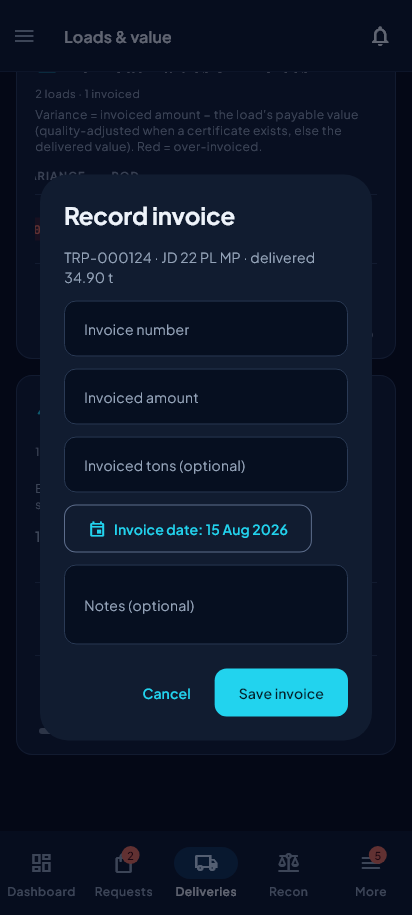
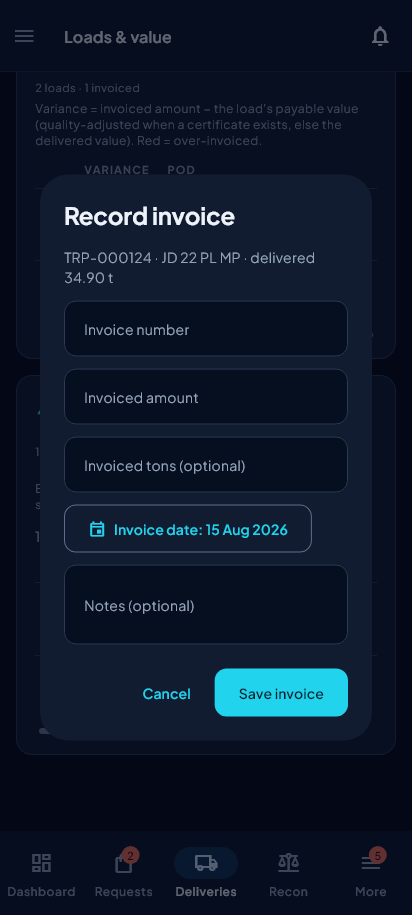
fix(buyer): the loads table fits its card, so the button it exists for is on screen
Buyer pass, reviewer finding #10, seen in
`screen-buyer-loads-value-desktop-light` — a horizontal scrollbar on a 1600px
desktop, and the last column cut at the card's right edge.

`MlDataTable._effectiveMinWidth` solves each column's declared need across the
WHOLE table (`need × totalFlex / flex`), because a flex weight is a share, not
a width. `Source` declared `minWidth: 124` — measured, and the comment above it
says why: "Iron Hills Mining" is 105px and "Atlas Buyer Group" 118px — while
holding `flex: 2` of 20. Ten per cent of the table had to be 124px, so the
table had to be 1376px. The card is about 1224px.

One column's weight disagreeing with its own declared need pushed the table
152px into a horizontal scroll and carried the LAST column off the right edge —
the ghost button that captures an invoice, which is the reason a buyer opens
this screen at all. At `flex: 3` of 21 the same 124px costs 968px and the
widest demand becomes the money columns at 1108px, which fits.

Looked at: the table now ends inside the card with no scrollbar, and both
"Edit" and "Invoice" are on screen. The truck cell reflowed to the two-line
identity the reference uses (plate over commodity). At text scale 1.3 the table
still scrolls — at 1.3 the figures genuinely need the room, and that is what
`MlWideTable`'s scrollbar is for.

Two goldens: this screen, and the invoice-capture dialog, whose only change is
the same table reflowing behind its scrim.
[…]

Changed region(s): [[0.0874, 0.0918, 0.8447, 0.2142]]

diff --git a/test/features/portal/buyer_loads_value_table_fits_test.dart b/test/features/portal/buyer_loads_value_table_fits_test.dart
@@ -1,0 +1,191 @@
+// The buyer's loads table fits its card, so the button it exists for is on
+// screen.
+//
+// Buyer pass, 2026-08-23 (reviewer finding #10, seen in
+// `screen-buyer-loads-value-desktop-light`: the table carried a horizontal
+// scrollbar on a 1600px desktop and the last column was cut at the card's
+// right edge).
+//
+// `MlDataTable._effectiveMinWidth` solves each column's declared need across
+// the WHOLE table — `need × totalFlex / flex` — because a flex weight is a
+// share, not a width. `Source` declared `minWidth: 124` (measured: "Iron Hills
+// Mining" is 105px, "Atlas Buyer Group" 118px) while holding `flex: 2` of 20,
+// which is 10% of the table. Ten per cent of the table had to be 124px, so the
+// table had to be 1376px. The card is about 1224px.
+//
+// So one column's weight disagreeing with its own declared need pushed the
+// table 152px into a horizontal scroll and carried the LAST column — the ghost
+// button that captures an invoice, which is the reason a buyer opens this
+// screen — off the right edge. At `flex: 3` of 21 the same 124px costs 968px
+// and the widest demand becomes the money columns at 1108px.
+//
+// The arithmetic is asserted directly rather than the pixels, because the
+// pixels are what the arithmetic produces and the arithmetic is what a future
+// column edit will get wrong.
+
+import 'package:flutter/material.dart';
+import 'package:flutter_riverpod/flutter_riverpod.dart';
+import 'package:flutter_test/flutter_test.dart';
+import 'package:shared_preferences/shared_preferences.dart';
+import 'package:supabase_flutter/supabase_flutter.dart';
+
+import 'package:flutter_application_1/core/design/components/ml_components.dart';
+import 'package:flutter_application_1/core/theme/app_theme.dart';
+import 'package:flutter_application_1/features/auth/models/user_type.dart';
+import 'package:flutter_application_1/features/portal/screens/buyer_loads_value_screen.dart';
+
+import '../../fixtures/portal_capture_fixtures.dart';
+import '../../fixtures/portal_tail_fixtures.dart';
+import '../../fixtures/screen_fixtures.dart';
+import '../../test_helpers/real_fonts.dart';
+import '../../test_helpers/frozen_clock.dart';
+
+/// `_effectiveMinWidth`, restated so a test can reason about it. Kept in step
+/// with `ml_data_table.dart` by the last case in this file.
+double tableMinimum(List<MlColumn> columns, {double scale = 1.0}) {
+  const rowPadding = 16.0;
+  const cellGutter = 12.0;
+  var totalFlex = 0;
+  var pinned = 0.0;
+  for (final c in columns) {
+    if (c.width != null) {
+      pinned += c.width!;
+    } else {
+      totalFlex += c.flex;
+    }
+  }
+  var out = 560.0;
+  for (final c in columns) {
+    if (c.minWidth == null) continue;
+    final need = c.minWidth! * scale + cellGutter;
+    final total = c.width != null
+        ? (need > c.width! ? pinned + need - c.width! + rowPadding : 0.0)
+        : (totalFlex == 0 || c.flex == 0
+            ? 0.0
+            : need * totalFlex / c.flex + pinned + rowPadding);
+    if (total > out) out = total;
+  }
+  return out;
+}
+
+void main() {
+  setUpAll(() async {
+    freezeCaptureClock();
+    await loadRealFonts();
+    SharedPreferences.setMockInitialValues({});
+    await Supabase.initialize(
+      url: 'http://localhost:54321',
+      anonKey: 'buyer-loads-value-table-test',
+    );
+  });
+
+  Future<void> pump(WidgetTester tester) async {
+    tester.view.physicalSize = const Size(1600, 1800);
+    tester.view.devicePixelRatio = 1.0;
+    addTearDown(tester.view.reset);
+    await tester.pumpWidget(
+      ProviderScope(
+        overrides: [
+          ...companyScopeOverrides(
+            role: UserRole.admin,
+            orgType: OrgType.buyer,
+          ),
+          ...portalCaptureOverrides(),
+          ...portalTailOverrides(),
+        ],
+        child: MaterialApp(
+          theme: AppTheme.darkTheme,
+          home: const Scaffold(body: BuyerLoadsValueScreen()),
+        ),
+      ),
+    );
+    await tester.pump();
+    await tester.pump(const Duration(milliseconds: 800));
+  }
+
+  /// The per-load table — the one with a Variance column.
+  MlDataTable loadsTable(WidgetTester tester) => tester
+      .widgetList<MlDataTable>(find.byType(MlDataTable))
+      .firstWhere(
+        (t) => t.columns.any((c) => c.label == 'Variance'),
+        orElse: () => throw StateError('no per-load table on this screen'),
+      );
+
+  testWidgets('the per-load table fits a desktop card', (tester) async {
+    await pump(tester);
+
+    final table = loadsTable(tester);
+    // The card the table sits in on a 1600px viewport: the page body caps and
+    // pads, and the card pads again. Measured off the render rather than
+    // recomputed here.
+    final card = tester
+        .getRect(find.ancestor(
+          of: find.byWidget(table),
+          matching: find.byType(MlCard),
+        ).first)
+        .width;
+
+    expect(
+      tableMinimum(table.columns),
+      lessThanOrEqualTo(card),
+      reason:
+          'the table demanded ${tableMinimum(table.columns).toStringAsFixed(0)}px '
+          'inside a ${card.toStringAsFixed(0)}px card, so it scrolled and the '
+          'last column — the invoice button — was off the right edge',
+    );
+  });
+
+  testWidgets('no column asks for more of the table than its weight buys', (
+    tester,
+  ) async {
+    await pump(tester);
+
+    final table = loadsTable(tester);
+    final totalFlex = table.columns
+        .where((c) => c.width == null)
+        .fold<int>(0, (a, c) => a + c.flex);
+
+    for (final c in table.columns.where((c) => c.minWidth != null)) {
+      // What this ONE column's declared need costs the whole table.
+      final own = (c.minWidth! + 12) * totalFlex / c.flex + 16;
+      expect(
+        own,
+        lessThanOrEqualTo(1224),
+        reason:
+            '"${c.label}" declares ${c.minWidth}px at flex ${c.flex} of '
+            '$totalFlex, which makes the WHOLE table '
+            '${own.toStringAsFixed(0)}px. Give the column a weight that can '
+            'pay for what it needs',
+      );
+    }
+  });
+
+  // The GREEN case: the columns still declare what their contents need. A
+  // "fix" that simply deleted the minWidths would pass the two cases above and
+  // put "Iron Hills Mining" and "R40,920.00" back into a clipped cell, which
+  // is the fault those numbers were measured to end.
+  testWidgets('the columns still declare their measured needs', (tester) async {
+    await pump(tester);
+
+    final byLabel = {
+      for (final c in loadsTable(tester).columns) c.label: c,
+    };
+    expect(byLabel['Truck']!.minWidth, kPlateColumnMinWidth);
+    expect(byLabel['Source']!.minWidth, 124);
+    expect(byLabel['Value']!.minWidth, 92);
+    expect(byLabel['']!.minWidth, 96);
+  });
+
+  // And the restatement above has not drifted from the widget it mirrors.
+  test('the arithmetic here matches ml_data_table.dart', () {
+    const columns = [
+      MlColumn('a', flex: 3, minWidth: 120),
+      MlColumn('b', flex: 2, minWidth: 200),
+      MlColumn('c', flex: 2),
+    ];
+    // (200 + 12) * 7 / 2 + 16 — the widest demand of the three, and above
+    // the 560px floor, which would otherwise be what is being asserted.
+    expect(tableMinimum(columns), closeTo((200 + 12) * 7 / 2 + 16, 0.01));
+    expect(tableMinimum(columns), greaterThan(560));
+  });
+}

diff --git a/lib/features/portal/screens/buyer_loads_value_screen.dart b/lib/features/portal/screens/buyer_loads_value_screen.dart
@@ -290,7 +290,21 @@ class _Body extends ConsumerWidget {
                   // 124: "Iron Hills Mining" is 105px and "Atlas Buyer Group"
                   // 118px at this table's body size, and 96 cut the first of
                   // them.
-                  MlColumn('Source', flex: 2, minWidth: 124),
+                  //
+                  // FLEX 3, NOT 2 — a column's weight has to be able to pay
+                  // for what the column declares it needs. `_effectiveMinWidth`
+                  // solves `need × totalFlex / flex` for the whole table, so
+                  // 124px at flex 2 of 20 demanded a **1376px** table. The card
+                  // is ~1224px on a 1600px screen, so this one column pushed
+                  // the table 152px into a horizontal scroll and carried the
+                  // LAST column — the ghost button that captures an invoice,
+                  // the reason a buyer opens this screen — off the right edge.
+                  // At flex 3 of 21 the same 124px costs 968px and the widest
+                  // demand becomes the money columns' 1108px, which fits.
+                  // (At text scale 1.3 the table still scrolls; at 1.3 the
+                  // figures genuinely need the room, and that is what the
+                  // scrollbar is for.)
+                  MlColumn('Source', flex: 3, minWidth: 124),
                   MlColumn('Delivered', flex: 2, align: TextAlign.right),
                   // The four money columns declare what their FIGURES need.
                   // A flex weight cannot know how big a number is: at flex 2
